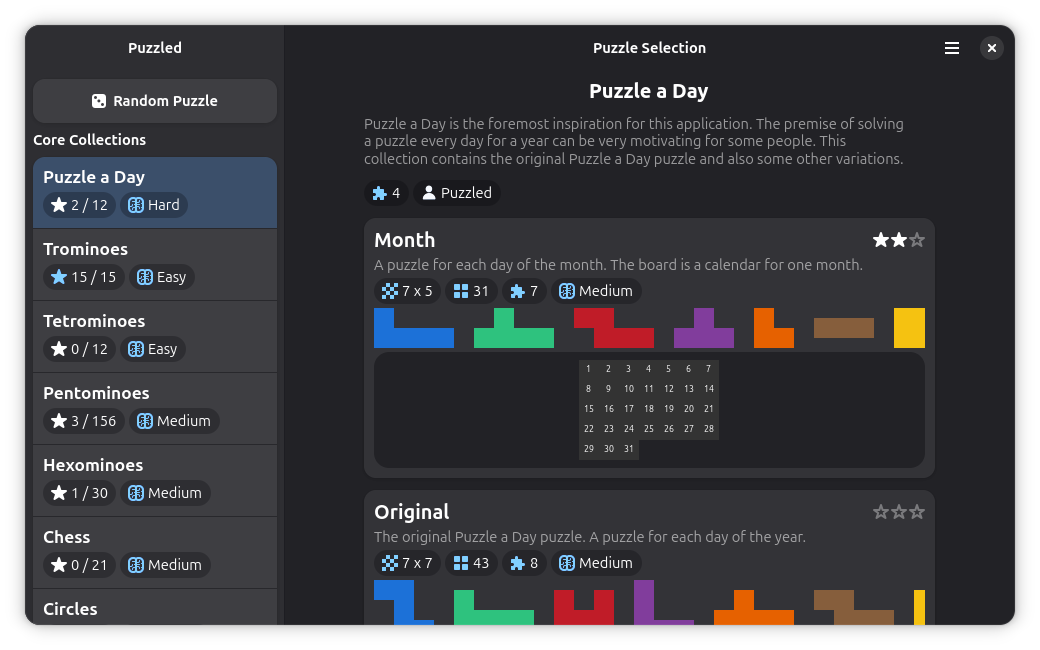
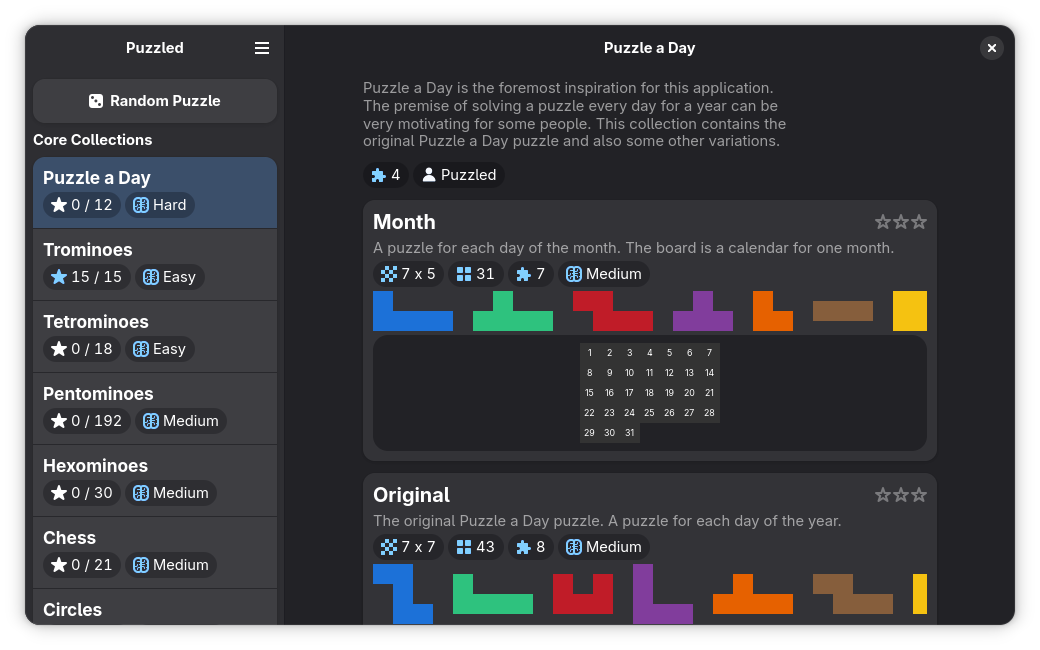
Add new puzzled releases

diff --git a/src/markdown/projects/puzzled.md b/src/markdown/projects/puzzled.md
@@ -3,9 +3,8 @@
 [Source Code (GitHub)](https://github.com/Til7701/Puzzled) | [Collection Spec](/projects/puzzled/collection-spec)
 
 An [Adwaita](https://gnome.pages.gitlab.gnome.org/libadwaita/) application for Linux to solve polyform puzzles in
-various formats.
-It can tell you, if you are on the right track or, whether it is impossible to solve the puzzle with your current
-approach.
+various formats. It can tell you, if you are on the right track or, whether it is impossible to solve the puzzle with
+your current approach.
 
 ![The puzzle selection](/assets/images/puzzled/screenshot-start-dark.png){data-external="1" width=100%}
 ![While solving a puzzle](/assets/images/puzzled/screenshot-year-dark.png){data-external="1" width=100%}
@@ -13,19 +12,17 @@ approach.
 This is the first project I am developing using Adwaita, GTK and Rust.
 
 I first saw Puzzle A Day in Canada while studying abroad and liked it so much, that I brought it back to Germany with
-me.
-After solving it every day for a year, I wanted to know how many solutions there are.
-So I wrote a solver in Java which can be found [here](https://github.com/Til7701/puzzle-a-day).
-After finding all solutions for the default layout, I tried out various other layouts.
-However, I had to recompile for each layout change, and it was not very user-friendly.
-Thus, I decided to use this project to make myself familiar with Rust and GTK development and provide a more
-user-friendly interface.
+me. After solving it every day for a year, I wanted to know how many solutions there are. So I wrote a solver in Java
+which can be found [here](https://github.com/Til7701/puzzle-a-day). After finding all solutions for the default layout,
+I tried out various other layouts. However, I had to recompile for each layout change, and it was not very
+user-friendly. Thus, I decided to use this project to make myself familiar with Rust and GTK development and provide a
+more user-friendly interface.
 
-You can solve any Polyomino puzzle with Puzzled, as long as you can provide the layout in the correct format.
-You can create your own puzzle layouts and load them into the application.
-In order for Puzzled to import the layouts, you have to create a JSON file following the specification defined
-[here](/projects/puzzled/collection-spec).
-If you have any problems with creating your own collection, feel free to open an issue on GitHub.
+You can solve any Polyomino puzzle with Puzzled, as long as you can provide the layout in the correct format. You can
+create your own puzzle layouts and load them into the application. In order for Puzzled to import the layouts, you have
+to create a JSON file following the specification defined
+[here](/projects/puzzled/collection-spec). If you have any problems with creating your own collection, feel free to open
+an issue on GitHub.
 
 ## Installation
 
@@ -38,6 +35,21 @@ flatpak install flathub de.til7701.Puzzled
 ## Releases
 
 [Install from Flathub](https://flathub.org/en/apps/de.til7701.Puzzled) | [GitHub Releases](https://github.com/Til7701/Puzzled/releases)
+
+### 1.2.3 (2026-08-29)
+
+[Download from GitHub](https://github.com/Til7701/Puzzled/releases/tag/v1.2.3)
+
+- Greatly improved the solver performance for hints.
+- Fixed the color of the hint tile if there are more than one of the same shape.
+- Fixed recently moved tiles not being on top of other tiles.
+
+### 1.2.2 (2026-08-20)
+
+[Download from GitHub](https://github.com/Til7701/Puzzled/releases/tag/v1.2.2)
+
+- Slightly redesigned the puzzle selection page header.
+- Fixed a bug where community collections could not be saved.
 
 ### 1.2.1 (2026-05-31)
 
@@ -104,9 +116,9 @@ flatpak install flathub de.til7701.Puzzled
 
 [Download from GitHub](https://github.com/Til7701/Puzzled/releases/tag/v0.3.1)
 
-- Instead of getting solvability-feedback every time you move a tile, you now have to request a
-  hint. This hint either shows a transparent tile where one should be placed or tells you that the
-  puzzle cannot be solved with the current approach.
+- Instead of getting solvability-feedback every time you move a tile, you now have to request a hint. This hint either
+  shows a transparent tile where one should be placed or tells you that the puzzle cannot be solved with the current
+  approach.
 - Solved puzzles are now marked as such.
 - You can now jump directly to the next puzzle in the collection after finding a solution.
 - Collections can now declare, that the puzzles should be solved in a linear order.
@@ -119,8 +131,8 @@ flatpak install flathub de.til7701.Puzzled
 
 [Download from GitHub](https://github.com/Til7701/Puzzled/releases/tag/v0.2.0)
 
-From this release onward, Puzzle More Days has been renamed to Puzzled.
-This release also includes a basic restructure of the application.
+From this release onward, Puzzle More Days has been renamed to Puzzled. This release also includes a basic restructure
+of the application.
 
 - Puzzles are now organised in collections.
 - Collections can be loaded at runtime.
@@ -130,7 +142,6 @@ This release also includes a basic restructure of the application.
 
 [Download from GitHub](https://github.com/Til7701/Puzzled/releases/tag/v0.1.0)
 
-First Release of Puzzle More Days, including the default layout and
-a layout with a two-digit year. Potential errors are highlighted
-and a solver predicts the solvability of the current approach.
+First Release of Puzzle More Days, including the default layout and a layout with a two-digit year. Potential errors are
+highlighted and a solver predicts the solvability of the current approach.
 
